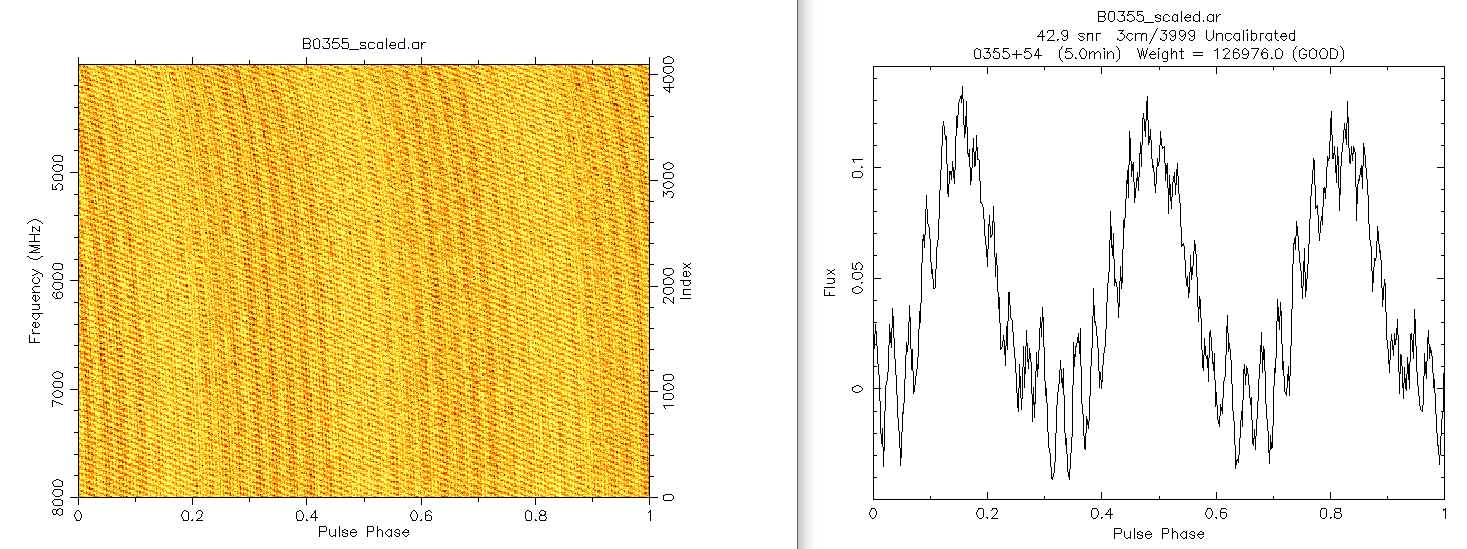
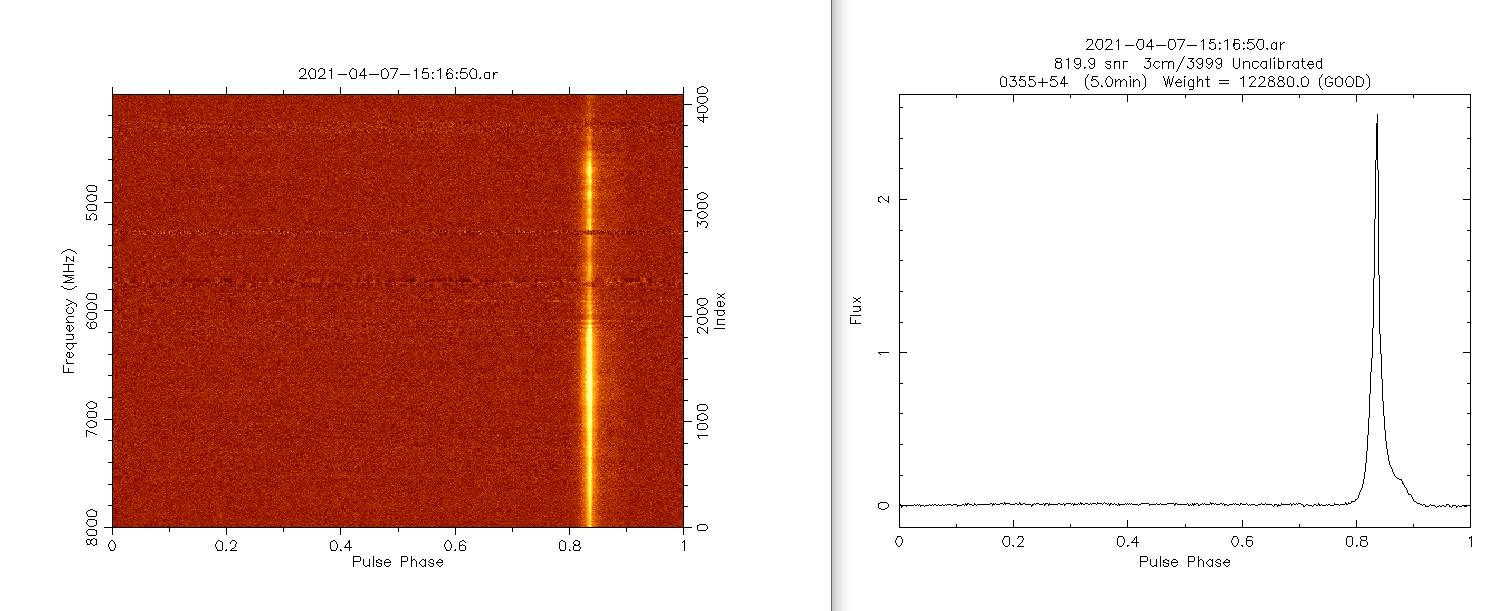
added new fold figure

diff --git a/bandpass_normalization/README.md b/bandpass_normalization/README.md
@@ -8,6 +8,8 @@ Example of new data
 
 ![](xamples/new.png)
 
+## Folded pulsar data
+
 Old data folded
 
 ![](xamples/orig_fold.png)
@@ -16,7 +18,6 @@ New data folded
 
 ![](xamples/new_fold.png)
 
-Obviously something is not right here...
 
 `TBD`
 
